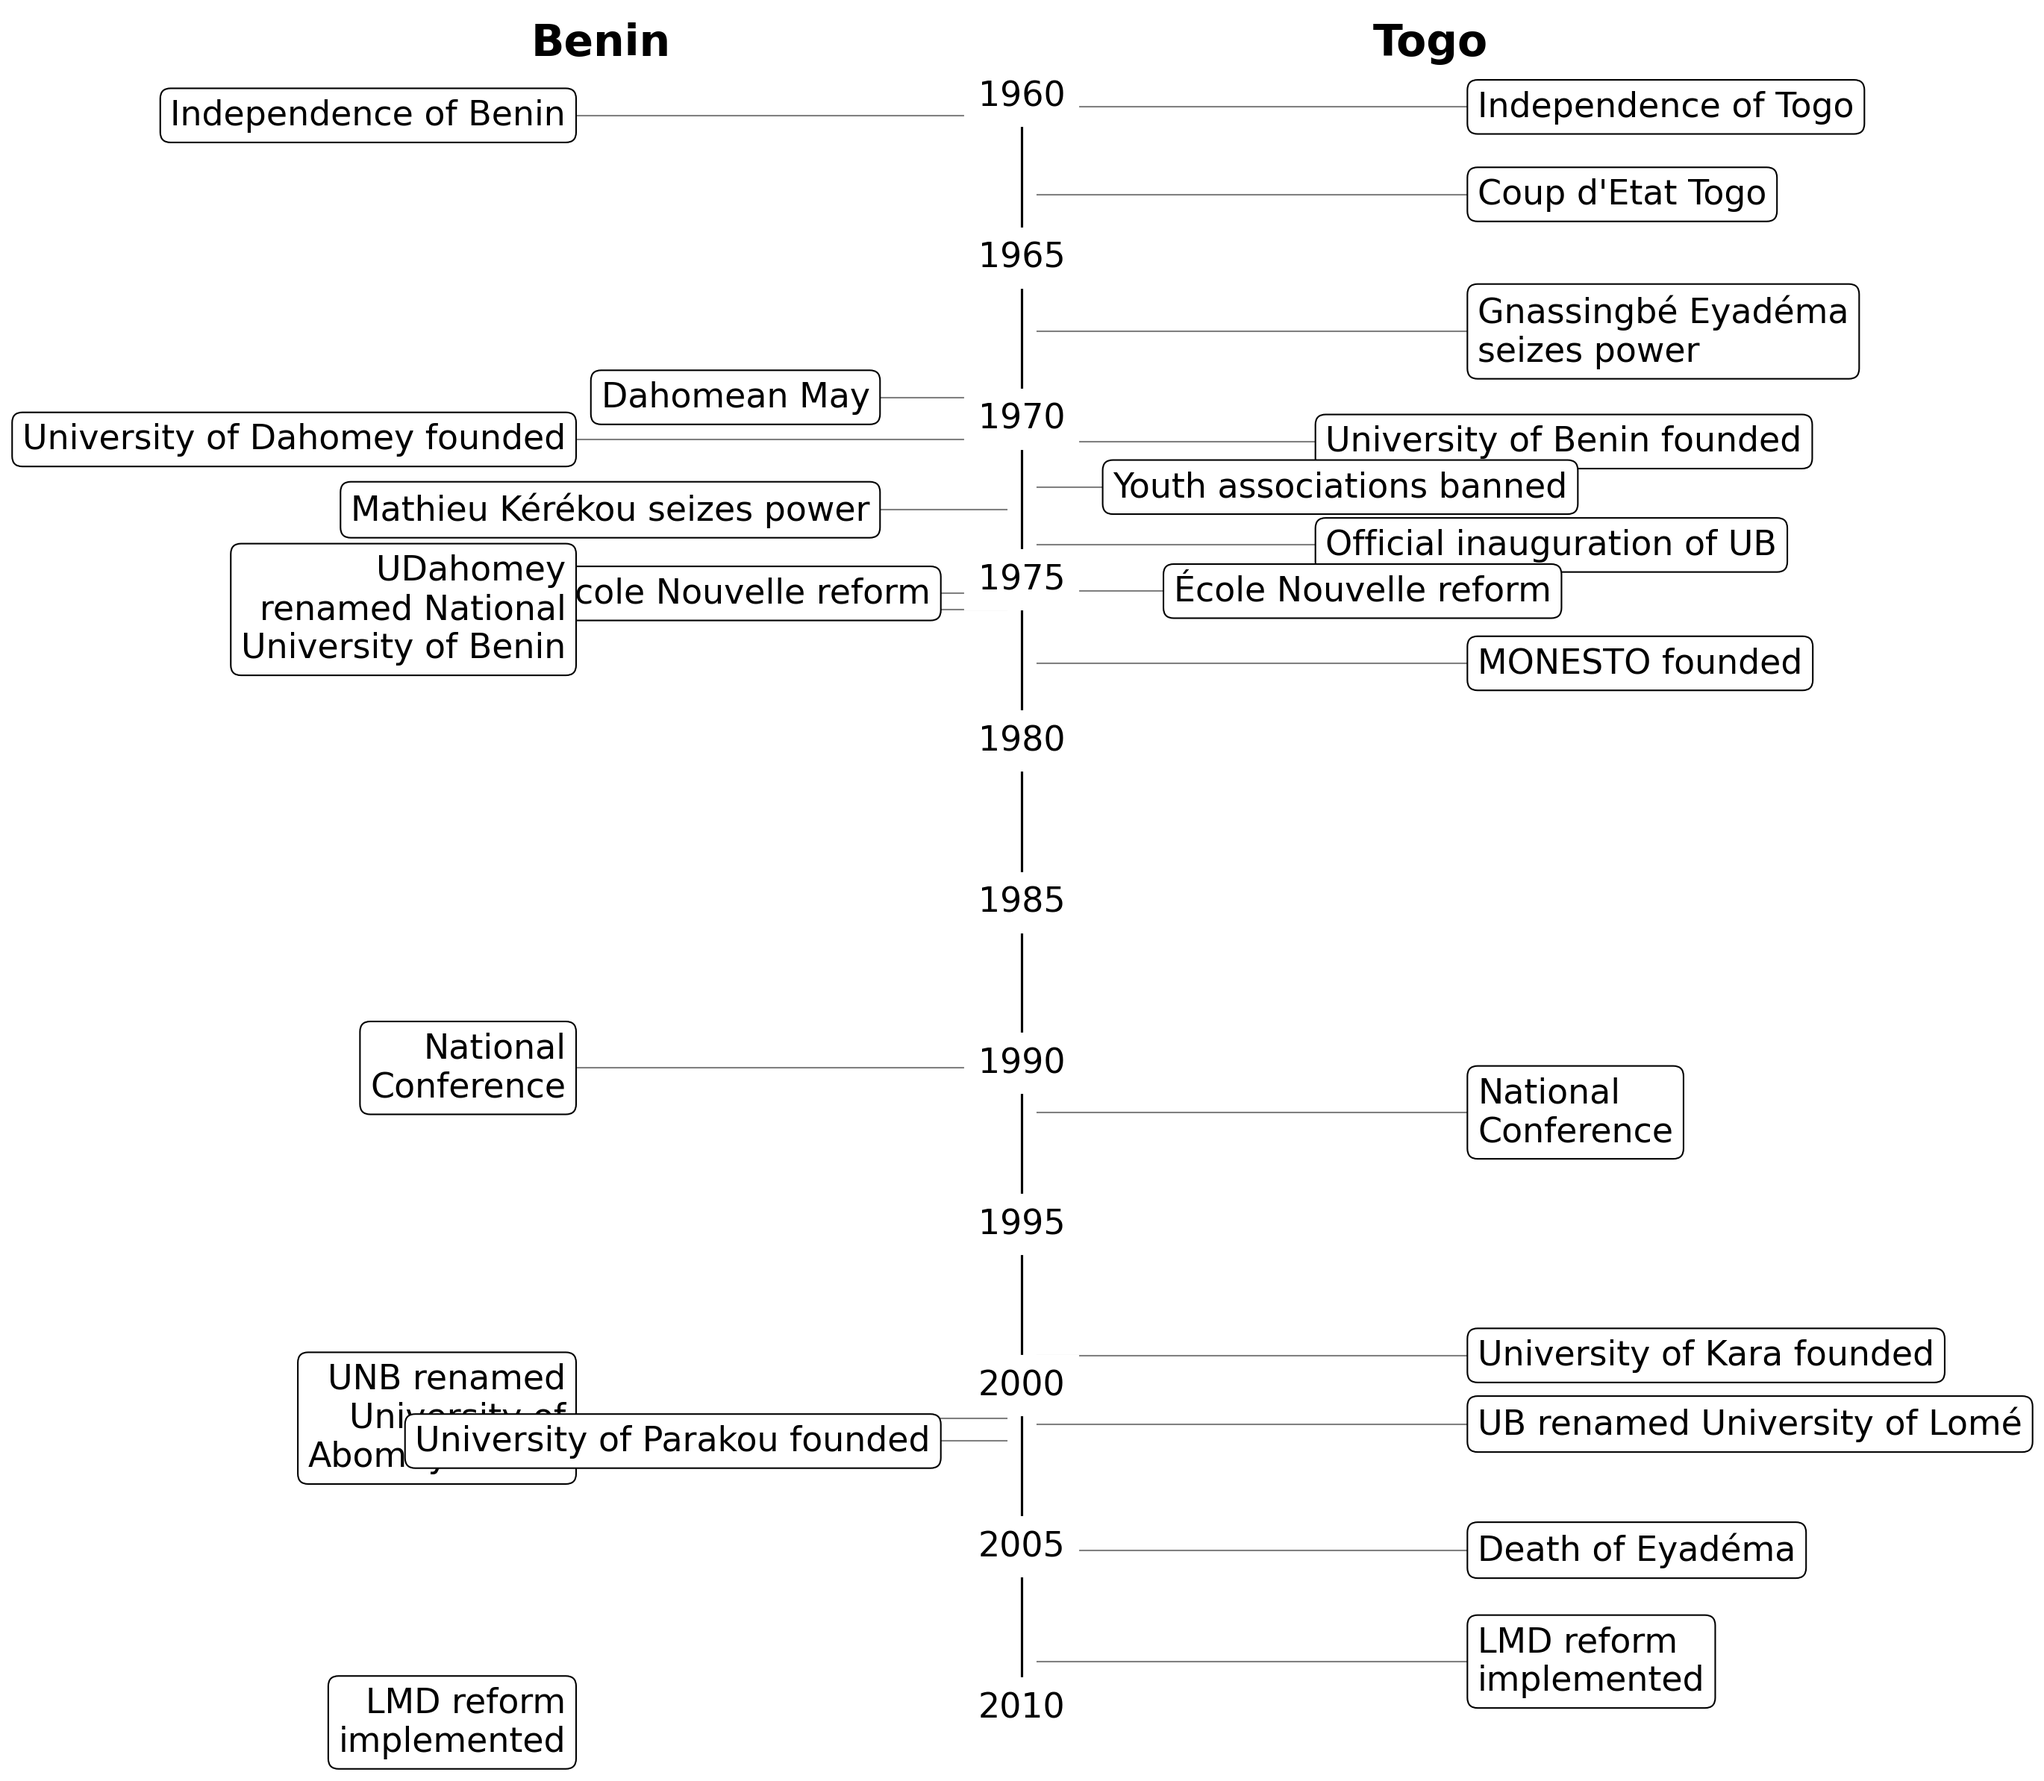
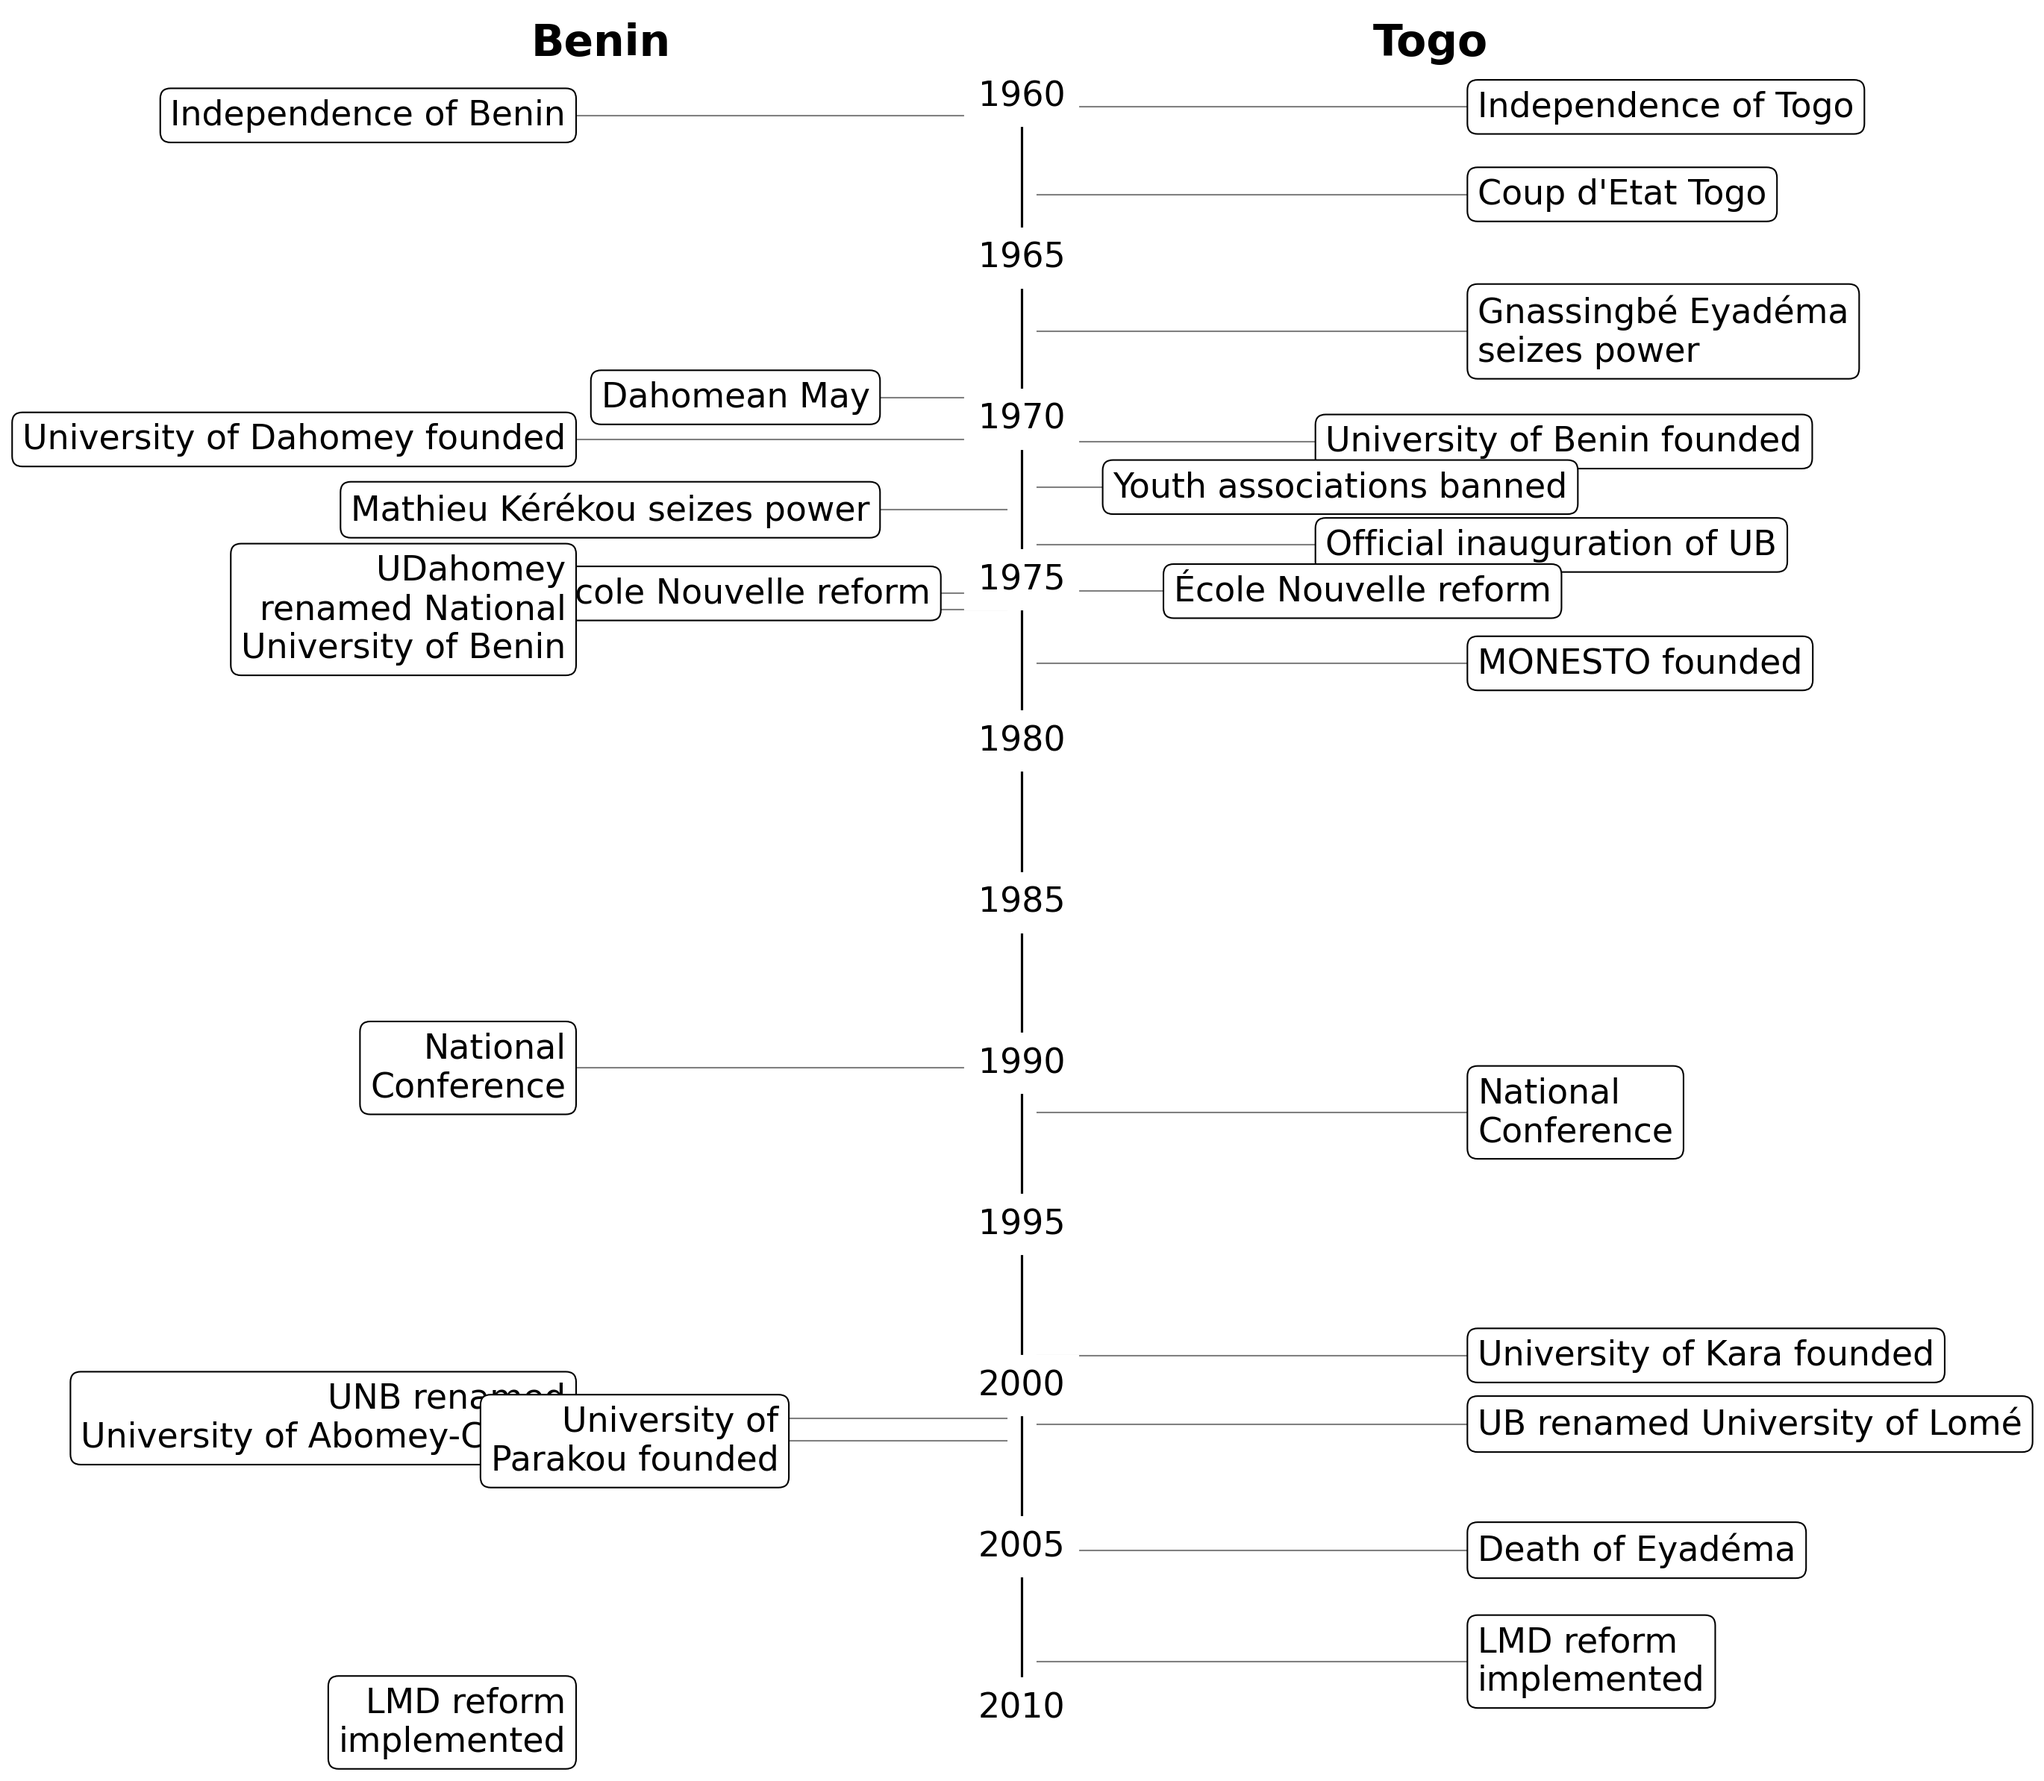
Update

Changed region(s): [[0.031, 0.744, 0.4655, 0.837]]

diff --git a/Book_DeGruyter/Timeline/timeline.py b/Book_DeGruyter/Timeline/timeline.py
@@ -134,7 +134,6 @@ def create_timeline(data, categories, filename_base, manual_positions=None):
             "University of Kara founded",
             "Independence of Benin",
             "UB renamed University of Lomé",
-            "University of Parakou founded",
             "University of Dahomey founded",
             "Youth associations banned",
             "Mathieu Kérékou seizes power",
@@ -142,9 +141,13 @@ def create_timeline(data, categories, filename_base, manual_positions=None):
             "University of Benin founded"
         ]
         
-        # Special case for UDahomey renamed event - force it to three lines
+        # Special cases for custom line breaks
         if text == "UDahomey renamed National University of Benin":
             return "UDahomey\nrenamed National\nUniversity of Benin"
+        elif text == "UNB renamed University of Abomey-Calavi":
+            return "UNB renamed\nUniversity of Abomey-Calavi"
+        elif text == "University of Parakou founded":
+            return "University of\nParakou founded"
             
         if text in no_wrap_events:
             return text  # Don't wrap these texts
@@ -184,8 +187,6 @@ def create_timeline(data, categories, filename_base, manual_positions=None):
                 text_x = 0.45  # Close to center
             elif event == "Mathieu Kérékou seizes power":
                 text_x = 0.45  # Close to center
-            elif event == "University of Parakou founded":
-                text_x = 0.47  # Same close position as others
             elif event == "University of Dahomey founded":
                 text_x = 0.35  # Further from center than default
             elif event == "UDahomey renamed National University of Benin":
@@ -272,7 +273,7 @@ religion_positions = {
 }
 
 education_politics_positions = {
-    # Removed "Dahomean May" from here since we're handling it in the text box positioning
+    "University of\nParakou founded": 0.42  # IMPORTANT: Must match the wrapped text exactly!
 }
 
 # Create Religion timeline with its specific positions
